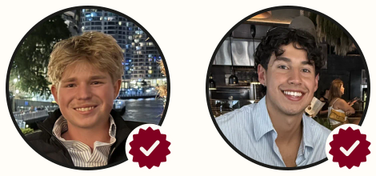
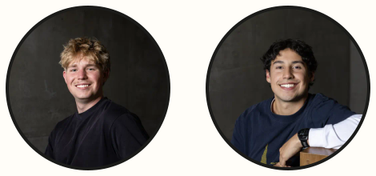
Simpler hero, no plan ticker, new founder photos, badges only next to founder names

diff --git a/src/components/landing/sections.tsx b/src/components/landing/sections.tsx
@@ -13,7 +13,6 @@
 
 import { InkCard, InkGlyph } from "@/components/brand/ink";
 import { TempoAgent } from "@/components/brand/tempo-agent";
-import { FoundingStrip } from "./founding";
 import { TempoPeek } from "@/components/brand/tempo-peek";
 import { TempoText } from "@/components/brand/tempo-type";
 import { FAQS, FEATURES } from "./content";
@@ -53,17 +52,10 @@ export function Hero() {
           align="center"
         />
         <p className="lead hero__lead">
-          Life gets busy, and time with your people goes first. Tempo makes the plan for you: your
-          Tempo talks to theirs, finds a time you&rsquo;re both free and puts it in both calendars.
+          Life gets busy. Tempo makes the plan with your people and puts it in everyone&rsquo;s calendar.
         </p>
         <WaitlistForm name="waitlist-hero" honeypot="bot-field" highlight />
-        <FoundingStrip />
-        <p className="small hero__note">
-          Free to join. Private beta on iPhone.{" "}
-          <a className="hero__more" href="#familiar">
-            Sound familiar? &darr;
-          </a>
-        </p>
+        <p className="small hero__note">Free. Private beta on iPhone.</p>
       </div>
     </section>
   );

diff --git a/src/app/page.tsx b/src/app/page.tsx
@@ -1,6 +1,6 @@
 import { ALT_NAMES, CONTACT_EMAIL, DESCRIPTION, FAQS, FEATURES, KEYWORDS, SITE_URL } from "@/components/landing/content";
 import { Booked, Faq, Features, FinalCta, Hero, People, SiteFooter, Talk, Taste } from "@/components/landing/sections";
-import { Backers, Founders, LifeOnTempo, PlanTicker, YourWeek } from "@/components/landing/brand-sections";
+import { Backers, Founders, LifeOnTempo, YourWeek } from "@/components/landing/brand-sections";
 import { PlansCounter } from "@/components/landing/plans-counter";
 import { FoundingSection } from "@/components/landing/founding";
 import { SoundFamiliar } from "@/components/landing/sound-familiar";
@@ -95,7 +95,6 @@ export default function Home() {
       <main>
         <Hero />
         <Backers />
-        <PlanTicker />
         <SoundFamiliar />
         <LifeOnTempo />
         <Taste />

diff --git a/src/components/landing/brand-sections.tsx b/src/components/landing/brand-sections.tsx
@@ -171,9 +171,6 @@ export function Founders() {
               <span className="founders__photo">
                 {/* eslint-disable-next-line @next/next/no-img-element */}
                 <img src={f.src} alt={`${f.name}, co-founder of Tempo`} width={240} height={240} loading="lazy" />
-                <span className="founders__badge">
-                  <FoundingBadge size={40} title={`${f.name} is a founding member`} />
-                </span>
               </span>
               <figcaption>
                 <span className="founders__name">
